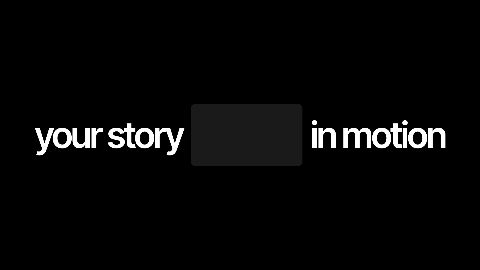
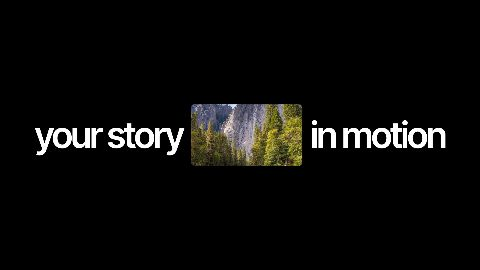
Declare split headline key fields, real preview
Use the merged keyFields contract and show a real photo in the
library preview instead of the empty grey block.

Claude-Session: https://claude.ai/code/session_0196M21sNeHTsauuRLCZkMCB

Changed region(s): [[0.375, 0.3852, 0.6562, 0.6222]]

diff --git a/src/lib/motion/template/split-headline/template.ts b/src/lib/motion/template/split-headline/template.ts
@@ -7,12 +7,11 @@ export const SPLIT_TEMPLATE_ID = `${BUILTIN_PREFIX}split-headline`;
 export const SPLIT_CLIP = 'split';
 export const SPLIT_VARS = ['headline', 'splitAt', 'media', 'textColor', 'background', 'radius', 'imageHeight', 'aspect', 'gap', 'openSeconds', 'holdSeconds', 'innerZoom', 'leave'];
 
-export const SPLIT_KEY_FIELDS = ['headline', 'media', 'text_color', 'background', 'radius'];
-
 export const SPLIT_HEADLINE_TEMPLATE: TemplateEntry = {
   id: SPLIT_TEMPLATE_ID,
   template: {
     name: 'Split headline',
+    keyFields: ['headline', 'media', 'text_color', 'background', 'radius'],
     description: 'A headline enters, then an image grows from nothing between its two halves, pushing the words apart as it opens. Every part is a field or a runtime variable.',
     doc: customTemplateDoc({ name: 'split-headline', component: SPLIT_COMPONENT, code: splitComponent(), props: SPLIT_PROPS, fonts: SPLIT_FONTS, varPrefix: SPLIT_VAR_PREFIX, vars: SPLIT_VARS, clip: SPLIT_CLIP, seconds: 8, fps: 30 })
   }

diff --git a/src/lib/motion/template/split-headline/template.test.ts b/src/lib/motion/template/split-headline/template.test.ts
@@ -9,7 +9,7 @@ import { builtinTemplate } from '../builtins';
 import { insertTemplate, setTemplateValues, templateFields } from '../library';
 import { FieldType } from '../field-model';
 import { SPLIT_COMPONENT } from './component';
-import { SPLIT_HEADLINE_TEMPLATE, SPLIT_KEY_FIELDS, SPLIT_TEMPLATE_ID } from './template';
+import { SPLIT_HEADLINE_TEMPLATE, SPLIT_TEMPLATE_ID } from './template';
 
 const inserted = (format = MotionFormat.Landscape) => {
   let n = 0;
@@ -46,7 +46,7 @@ describe('the split headline template', () => {
   it('names its key fields among the fields it exposes', () => {
     const keys = SPLIT_HEADLINE_TEMPLATE.template.doc.fields.map((f) => f.key);
 
-    expect(keys).toEqual(expect.arrayContaining(SPLIT_KEY_FIELDS));
+    expect(keys).toEqual(expect.arrayContaining(SPLIT_HEADLINE_TEMPLATE.template.keyFields ?? ['missing']));
   });
 
   it('declares runtime variables an embedding site can set', () => {
